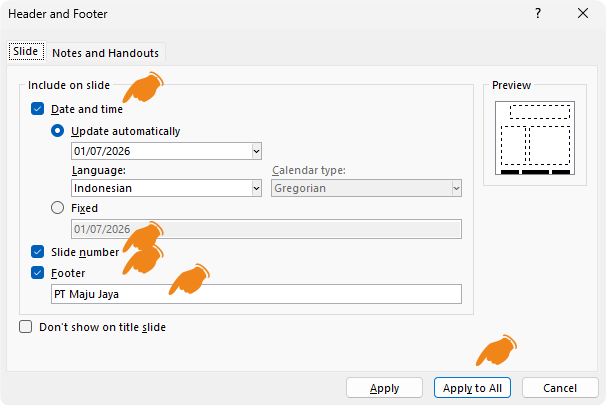
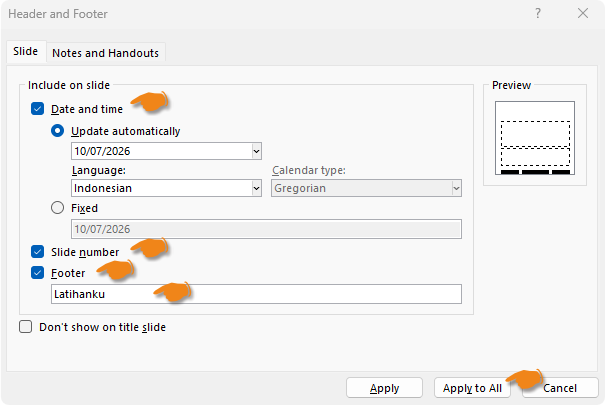
M

diff --git a/materi-powerpoint.html b/materi-powerpoint.html
@@ -3438,9 +3438,8 @@
                           <!-- Close Master View -->
                           <ul>
                             <li>
-                              <strong>Close Master View.</strong> Sekarang seluruh Slide memakai desain yang sama
-                              dan
-                              kembali ke tampilan normal.
+                              <strong>Close Master View.</strong> <br> Sekarang seluruh Slide memakai desain yang sama
+                              dan kembali ke tampilan normal.
                               <div class="my-3">
                                 <img src="assets/img/Close-Master-View.png" alt="" class="img-fluid shadow rounded">
                               </div>
@@ -3470,7 +3469,7 @@
                                     <li>&#10003; Centang Date and time (opsional)</li>
                                     <li>&#10003; Centang Slide number (opsional)</li>
                                     <li>&#10003; Centang Footer</li>
-                                    <li>&#10003; Isi teks footer, misalnya: <strong>PT Maju Jaya</strong></li>
+                                    <li>&#10003; Isi teks footer, misalnya: <strong>Latihanku</strong></li>
                                     <li>&#10003; Klik <strong>Apply to All</strong>.
                                       <div class="my-3">
                                         <img src="assets/img/Header&Footer2.png" alt=""
